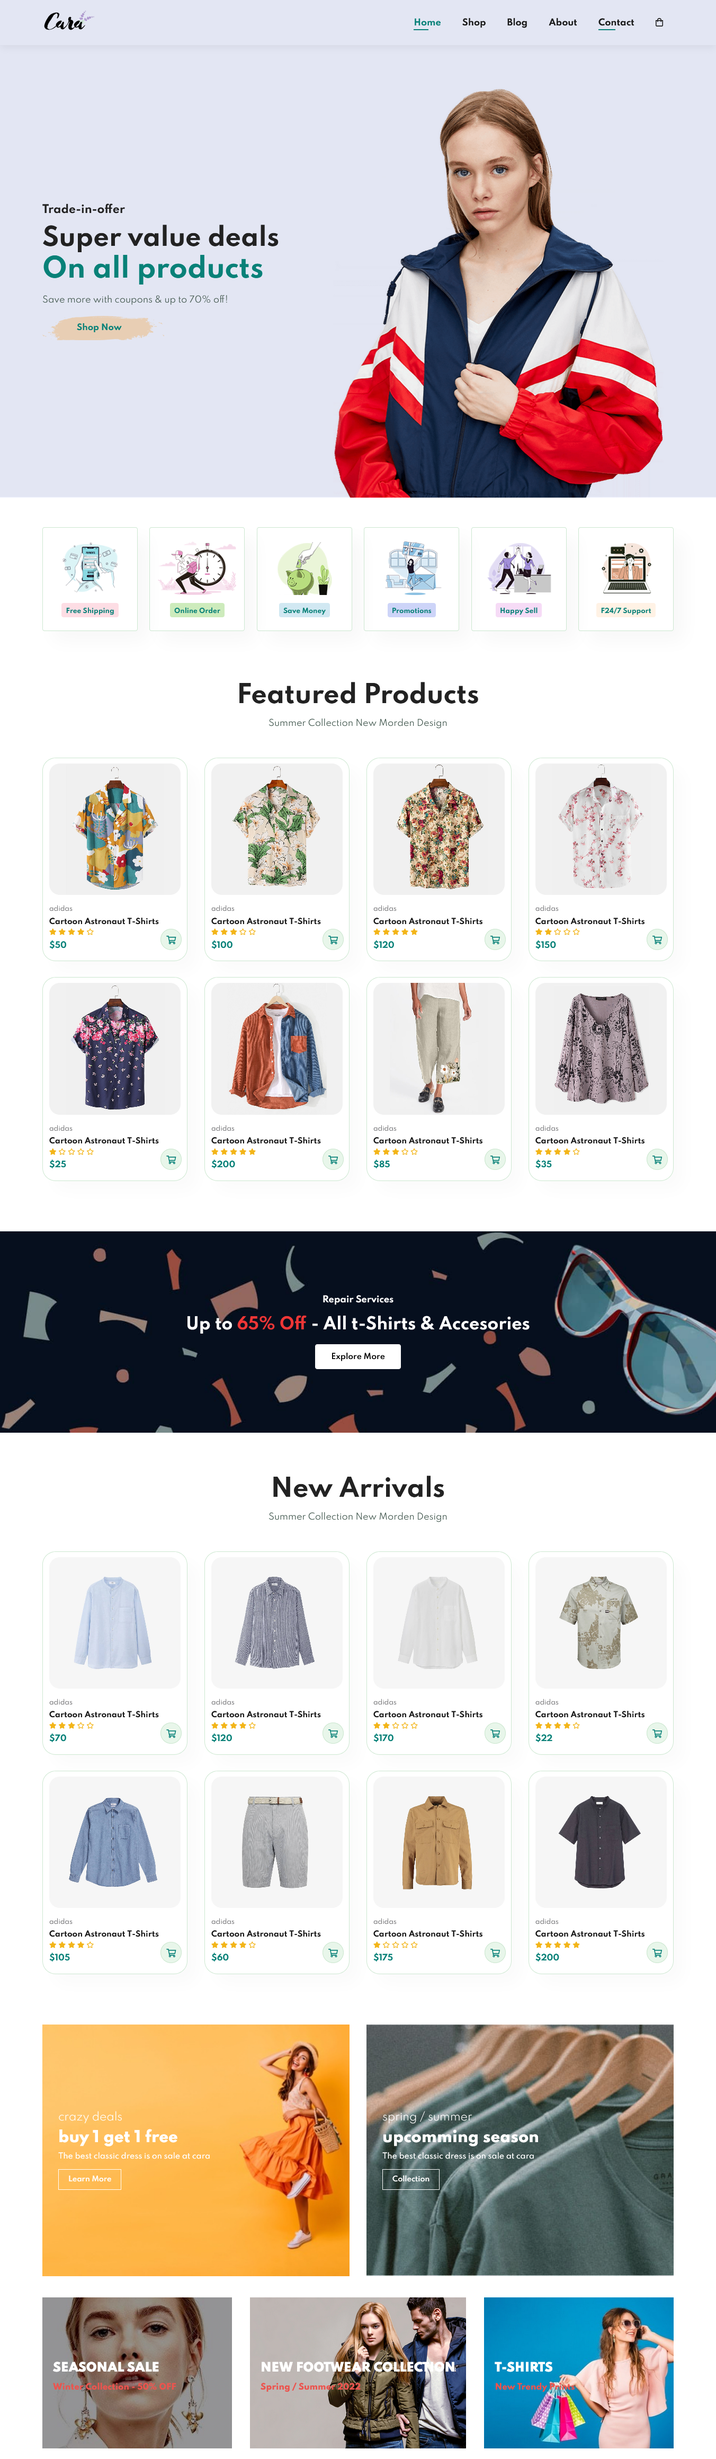
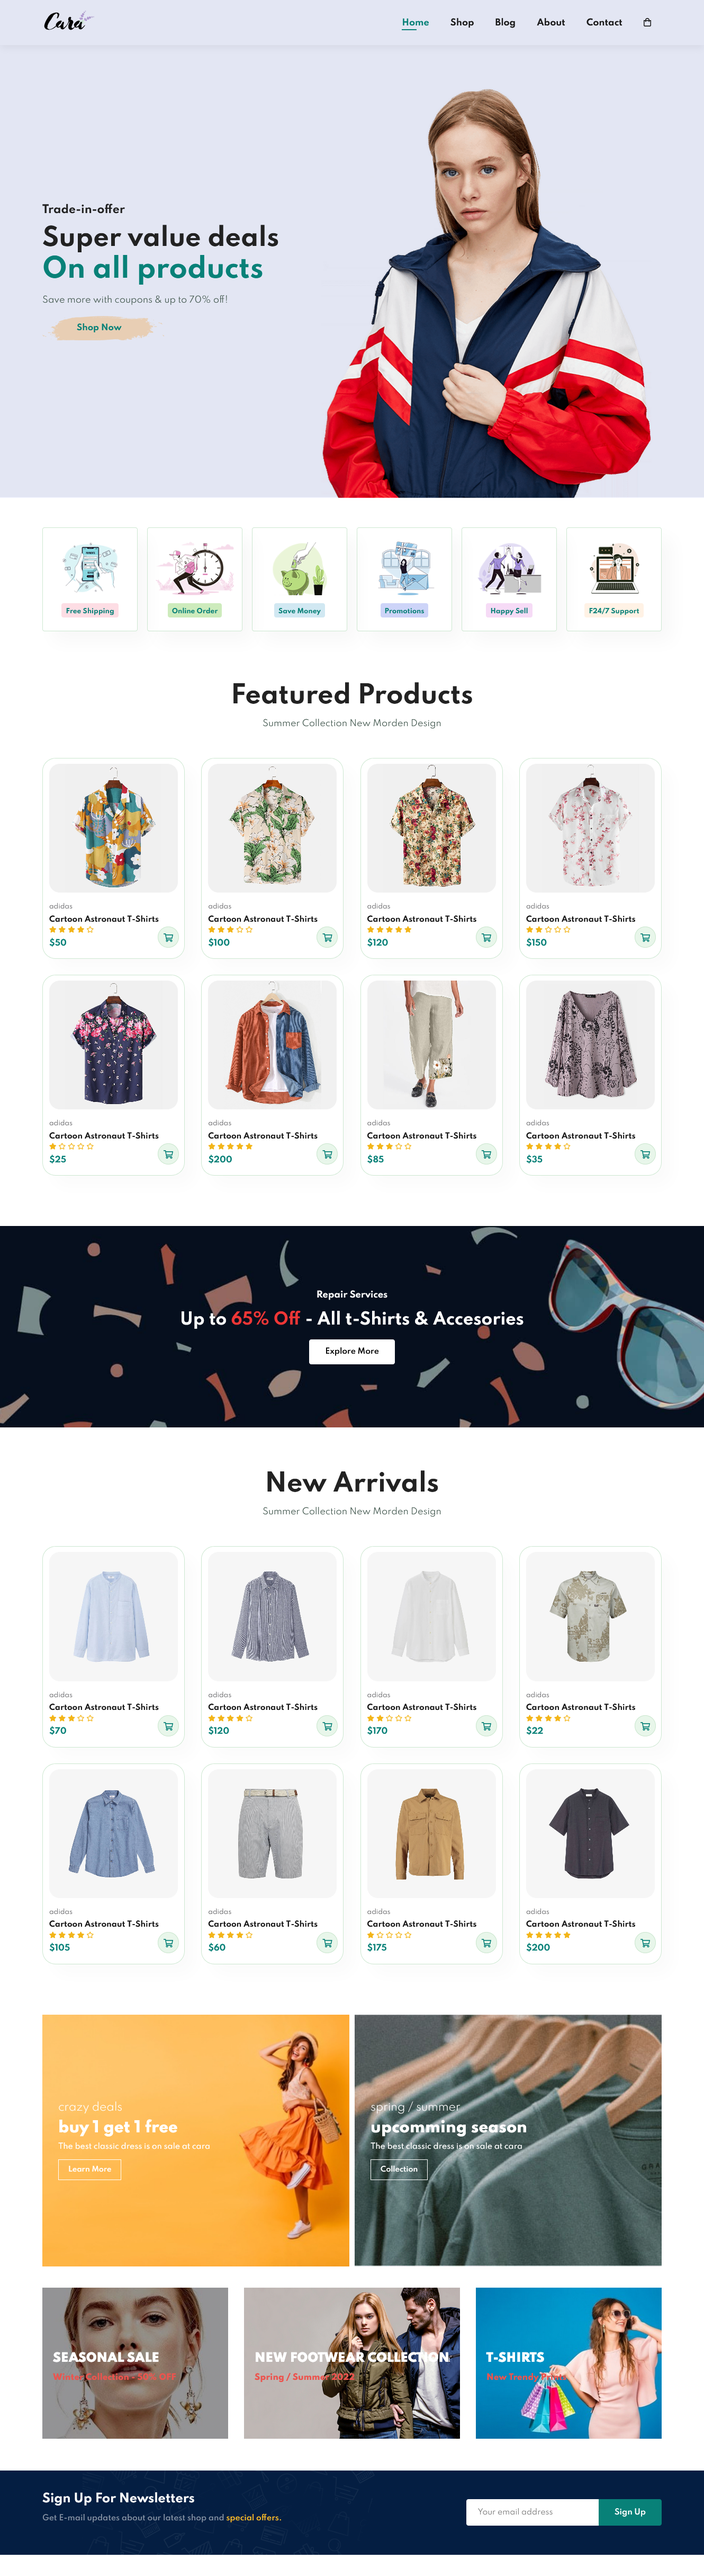
Readme Modificado

diff --git a/styles.css b/styles.css
@@ -413,5 +413,55 @@ body {
     font-size: 15px;
 }
 
+/* NEWSLETTER */
+#newsletter {
+    display: flex;
+    justify-content: space-between;
+    align-items: center;
+    flex-wrap: wrap;
+    background-image: url("img/banner/b14.png");
+    background-repeat: no-repeat;
+    background-position: 20% 30%;
+    background-color: #041e42;
+}
 
+#newsletter .newstext h4 {
+    font-size: 22px;
+    font-weight: 700;
+    color: #fff;
+}
+
+#newsletter .newstext p {
+    font-size: 14px;
+    font-weight: 600;
+    color: #818ea0;
+}
+
+#newsletter .newstext p span {
+    color: #ffbd27;
+}
+
+#newsletter .form {
+    display: flex;
+}
+
+#newsletter .form input {
+    height: 3.125rem;
+    padding: 0 1.25rem;
+    font-size: 14px;
+    width: 100%;
+    border: 1px solid transparent;
+    border-radius: 4px;
+    outline: none;
+    border-top-right-radius: 0;
+    border-bottom-right-radius: 0;
+}
+
+#newsletter .form button {
+    background-color: #088178;
+    color: #fff;
+    white-space: nowrap;
+    border-top-left-radius: 0;
+    border-bottom-left-radius: 0;
+}
 

diff --git a/index.html b/index.html
@@ -413,6 +413,25 @@
         </div>
     </section>
 
+    <!-- NEWSLETTER -->
+    <section id="newsletter" class="section-p1 section-m1">
+
+        <div class="newstext">
+            <h4>Sign Up For Newsletters</h4>
+            <p>Get E-mail updates about our latest shop and <span>special offers.</span></p>
+        </div>
+
+        <div class="form">
+            <input type="text" placeholder="Your email address">
+            <button class="normal">Sign Up</button>
+        </div>
+
+    </section>
+
+
+
+
+
     <script src="app.js"></script>
 </body>
 </html>
